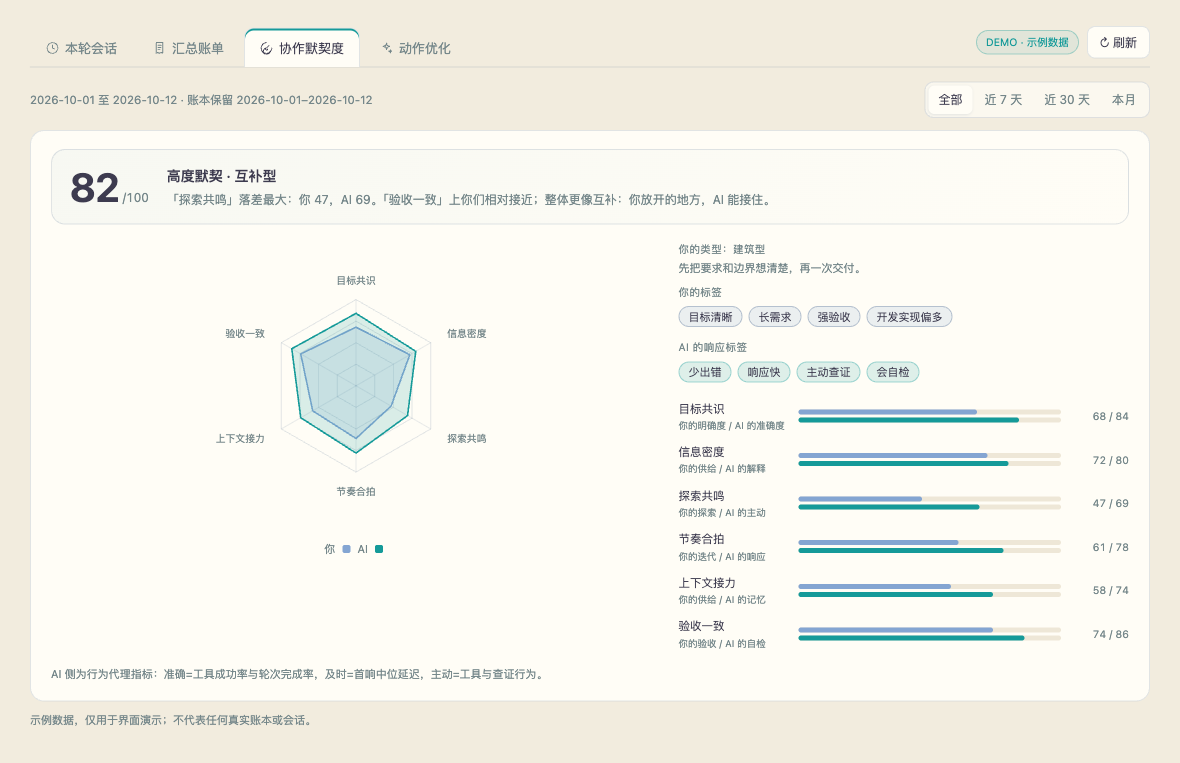
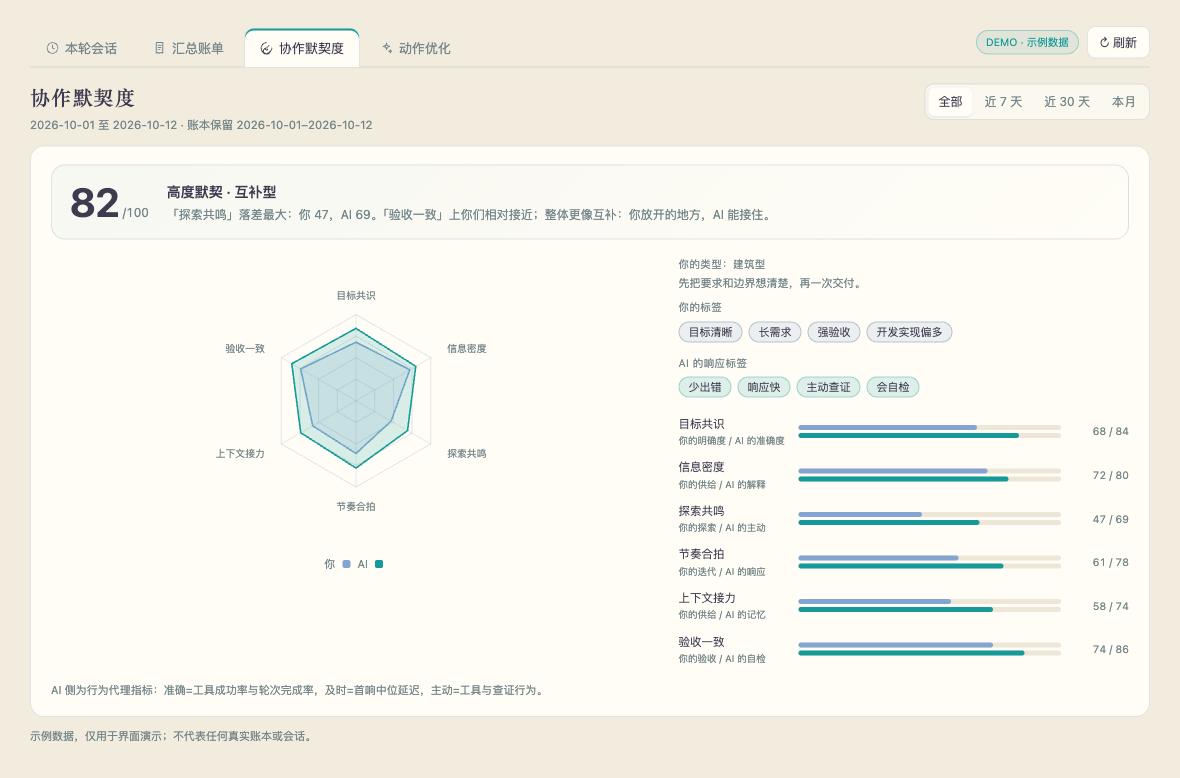
feat: module titles and right-side switches (0.1.7)

diff --git a/client.js b/client.js
@@ -258,8 +258,11 @@ window.__ModuleLoader__.load({
       .tb-report-error { position: absolute; right: 0; top: calc(100% + 6px); z-index: 41; max-width: 260px; padding: 6px 9px; border: 1px solid ${C.error}; border-radius: 8px; background: var(--tb-card); color: ${C.error}; font-size: 10.5px; box-shadow: 0 8px 24px rgba(42,74,120,.12); }
       .tb-primary-tab[aria-selected="true"] { background: var(--tb-card); border-color: var(--tb-line); color: ${C.primary}; box-shadow: inset 0 2px 0 ${VI.teal}; }
       .tb-module { display: grid; gap: 14px; margin-top: 14px; }
-      .tb-module-head { display: flex; align-items: center; justify-content: space-between; gap: 12px; flex-wrap: wrap; }
+      .tb-module-head { display: flex; align-items: flex-start; justify-content: space-between; gap: 14px; flex-wrap: wrap; }
+      .tb-module-heading { display: flex; flex-direction: column; gap: 3px; min-width: 0; }
+      .tb-module-title { font-family: "Songti SC", "STSong", "Noto Serif SC", serif; font-size: 20px; font-weight: 600; letter-spacing: .06em; color: ${C.primary}; }
       .tb-module-meta { font-size: 11.5px; color: ${C.secondary}; }
+      .tb-module-controls { display: flex; align-items: center; gap: 10px; flex-wrap: wrap; margin-left: auto; padding-top: 2px; }
       .tb-top { padding: 16px 18px; background: linear-gradient(140deg, color-mix(in srgb, ${VI.ivory} 26%, var(--tb-card)), var(--tb-card) 64%); }
       .tb-top-head { display: flex; align-items: center; justify-content: space-between; gap: 12px; flex-wrap: wrap; }
       .tb-top-tabs { flex-wrap: wrap; }
@@ -1160,7 +1163,7 @@ window.__ModuleLoader__.load({
         setPositions(prev => ({ ...prev, [id]: { x: Math.max(30, Math.min(layout.width - 30, x)), y: Math.max(24, Math.min(layout.height - 24, y)) } }))
       }
 
-      return h(Card, { title: '任务关联图', sub: relations.note },
+      return h(Card, { title: '任务关联度', sub: relations.note },
         relations.topics.length ? h('div', { className: 'tb-tags' },
           relations.topics.map(topic => h('span', { key: topic.id, className: 'tb-tag a' }, `${topic.label} · ${topic.count}`))) : null,
         h('svg', {
@@ -1435,10 +1438,14 @@ window.__ModuleLoader__.load({
           h('button', { key, type: 'button', 'aria-pressed': period === key, onClick: () => onChange(key) }, label)))
     }
 
-    function ModuleBar({ meta, period, onChange }) {
+    function ModuleBar({ title, meta, period, onChange, children }) {
       return h('div', { className: 'tb-module-head' },
-        h('div', { className: 'tb-module-meta' }, meta || ''),
-        h(PeriodBar, { period, onChange }))
+        h('div', { className: 'tb-module-heading' },
+          title ? h('div', { className: 'tb-module-title' }, title) : null,
+          meta ? h('div', { className: 'tb-module-meta' }, meta) : null),
+        h('div', { className: 'tb-module-controls' },
+          children,
+          period ? h(PeriodBar, { period, onChange }) : null))
     }
 
     function Switch({ items, value, onChange, accent = VI.teal }) {
@@ -1618,12 +1625,10 @@ window.__ModuleLoader__.load({
       const session = data.session
       if (!session) return h('div', { className: 'tb-empty' }, '本轮会话还没有计费记录。')
       return h('div', { className: 'tb-session' },
-        h('div', { className: 'tb-session-head' },
-          h('div', null,
-            h('div', { className: 'tb-card-t' }, '账单明细'),
-            h('div', { className: 'tb-card-s' }, `${session.title || '当前会话'} · ${session.date || ''} · ${session.domainLabel || ''} · ${session.turns || '—'} 轮 · ${(session.models || []).join('、') || '—'}`))),
-        h('div', { className: 'tb-module-switch' },
-          h(Switch, { items: [['overview', '概览'], ['detail', '明细']], value: view, onChange: setView, accent: VI.teal })),
+        h(ModuleBar, {
+          title: view === 'overview' ? '概览' : '明细',
+          meta: `${session.title || '当前会话'} · ${session.date || ''} · ${session.domainLabel || ''} · ${session.turns || '—'} 轮 · ${(session.models || []).join('、') || '—'}`,
+        }, h(Switch, { items: [['overview', '概览'], ['detail', '明细']], value: view, onChange: setView, accent: VI.teal })),
         view === 'overview'
           ? h(React.Fragment, null,
             h(SessionOverview, { session, data }),
@@ -1722,10 +1727,14 @@ window.__ModuleLoader__.load({
 
     function TotalModule({ data, period, onPeriod, domain, onDomain, tool, onTool }) {
       const [view, setView] = useState('overview')
+      const title = view === 'overview' ? '概览' : view === 'detail' ? '明细' : '任务关联度'
       return h('div', { className: 'tb-module' },
-        h(ModuleBar, { meta: `${data.range.from} 至 ${data.range.to} · 账本保留 ${data.retained.from}–${data.retained.to}`, period, onChange: onPeriod }),
-        h('div', { className: 'tb-module-switch' },
-          h(Switch, { items: [['overview', '概览'], ['detail', '明细'], ['relations', '任务关联']], value: view, onChange: setView, accent: VI.navy })),
+        h(ModuleBar, {
+          title,
+          meta: `${data.range.from} 至 ${data.range.to} · 账本保留 ${data.retained.from}–${data.retained.to}`,
+          period,
+          onChange: onPeriod,
+        }, h(Switch, { items: [['overview', '概览'], ['detail', '明细'], ['relations', '任务关联度']], value: view, onChange: setView, accent: VI.navy })),
         view === 'overview'
           ? h(Summary, { data })
           : view === 'detail'
@@ -1742,13 +1751,13 @@ window.__ModuleLoader__.load({
 
     function RapportModule({ data, period, onPeriod }) {
       return h('div', { className: 'tb-module' },
-        h(ModuleBar, { meta: '按所选账期计算', period, onChange: onPeriod }),
+        h(ModuleBar, { title: '协作默契度', meta: '按所选账期计算', period, onChange: onPeriod }),
         h(StyleSection, { data }))
     }
 
     function ActionsModule({ data, period, onPeriod }) {
       return h('div', { className: 'tb-module' },
-        h(ModuleBar, { meta: '按所选账期计算', period, onChange: onPeriod }),
+        h(ModuleBar, { title: '动作优化', meta: '按所选账期计算', period, onChange: onPeriod }),
         h(Suggestions, { data }))
     }
 

diff --git a/docs/demo.html b/docs/demo.html
@@ -11,9 +11,12 @@
   .primary-head { display:flex; align-items:center; justify-content:space-between; gap:16px; border-bottom:1px solid var(--line); margin-bottom:14px; }
   .primary-tabs { display:flex; gap:4px; flex-wrap:wrap; }
   .primary-tools { display:flex; align-items:center; gap:8px; margin-bottom:8px; }
-  .module-head { display:flex; align-items:center; justify-content:space-between; gap:12px; flex-wrap:wrap; margin:2px 0 12px; }
+  .module-head { display:flex; align-items:flex-start; justify-content:space-between; gap:14px; flex-wrap:wrap; margin:2px 0 12px; }
+  .module-heading { display:flex; flex-direction:column; gap:3px; min-width:0; }
+  .module-title { font-family:"Songti SC","STSong","Noto Serif SC",serif; font-size:20px; font-weight:600; letter-spacing:.06em; color:var(--ink); }
   .module-meta { font-size:11.5px; color:var(--muted); }
-  .subswitch { display:inline-grid; grid-template-columns:repeat(3,1fr); position:relative; padding:3px; margin:0 0 12px; border:1px solid var(--line); border-radius:99px; background:rgba(255,253,246,.7); }
+  .module-controls { display:flex; align-items:center; gap:10px; flex-wrap:wrap; margin-left:auto; padding-top:2px; }
+  .subswitch { display:inline-grid; grid-template-columns:repeat(3,1fr); position:relative; padding:3px; margin:0; border:1px solid var(--line); border-radius:99px; background:rgba(255,253,246,.7); }
   .subswitch .thumb { position:absolute; top:3px; bottom:3px; left:3px; width:calc((100% - 6px)/3); border-radius:99px; background:var(--navy); box-shadow:0 2px 7px rgba(42,74,120,.25); }
   .subswitch button { position:relative; z-index:1; border:0; background:transparent; color:var(--muted); padding:5px 14px; border-radius:99px; font:inherit; font-size:12px; }
   .subswitch button.on { color:#fff; font-weight:600; }
@@ -168,9 +171,10 @@ const actions = [
   ['high','先优化最贵的三个任务','前三个任务占了可归因费用的 51%，它们的写法决定了大部分账单。','优先给这类任务建立模板：固定输入、固定验收标准、固定停止条件。','结构性优化','任务集中度'],
 ];
 const actionsHTML = `<div class="suggestions">${actions.map(([p,t,w,a,s,b])=>`<div class="sug"><div class="sug-head"><span class="dot" style="background:${p==='high'?'#B55245':'#D9A441'}"></span><span class="sug-title">${t}</span><span class="sug-save">${s}</span></div><div class="sug-why">${w}</div><div class="sug-act">${a}</div><div class="sug-basis">${b}</div></div>`).join('')}</div>`;
-const moduleBar = `<div class="module-head"><div class="module-meta">2026-10-01 至 2026-10-12 · 账本保留 2026-10-01–2026-10-12</div><div class="seg"><button class="on">全部</button><button>近 7 天</button><button>近 30 天</button><button>本月</button></div></div>`;
-const subSwitch = tab==='summary' ? `<div class="subswitch"><span class="thumb"></span><button class="on">概览</button><button>明细</button><button>任务关联</button></div>` : '';
-document.getElementById('panel').innerHTML = moduleBar + subSwitch + (tab==='rapport'?`<div class="card" style="padding:18px 20px">${rapport}</div>`:tab==='actions'?actionsHTML:summary);
+const title = tab==='summary' ? '概览' : tab==='rapport' ? '协作默契度' : '动作优化';
+const subSwitch = tab==='summary' ? `<div class="subswitch"><span class="thumb"></span><button class="on">概览</button><button>明细</button><button>任务关联度</button></div>` : '';
+const moduleBar = `<div class="module-head"><div class="module-heading"><div class="module-title">${title}</div><div class="module-meta">2026-10-01 至 2026-10-12 · 账本保留 2026-10-01–2026-10-12</div></div><div class="module-controls">${subSwitch}<div class="seg"><button class="on">全部</button><button>近 7 天</button><button>近 30 天</button><button>本月</button></div></div></div>`;
+document.getElementById('panel').innerHTML = moduleBar + (tab==='rapport'?`<div class="card" style="padding:18px 20px">${rapport}</div>`:tab==='actions'?actionsHTML:summary);
 document.querySelectorAll('.pill').forEach(el=>el.addEventListener('click',()=>{location.search='?tab='+el.dataset.tab}));
 </script>
 </body>

diff --git a/README.ja.md b/README.ja.md
@@ -2,7 +2,7 @@
 
 [English](README.md) | [简体中文](README.zh-CN.md) | **日本語** | [한국어](README.ko.md)
 
-バージョン **0.1.6**（2026-11-25）· パッケージ `@zhiyu.pub/dsh-token-bill`。
+バージョン **0.1.7**（2026-11-25）· パッケージ `@zhiyu.pub/dsh-token-bill`。
 
 ローカルのコスト台帳とセッションログを、読める「Token 明細」に変える [DeepSeek Harness](https://github.com/deepseek-ai/deepseek-harness)（DSH）バンドルです。会話ページに **明細（账单）** ビューを追加します。
 
@@ -45,10 +45,10 @@ web プロファイルでは `desktop` を `web` に。ソースからは `dsh p
 
 ### 上部タブ
 
-ページタイトルの代わりに 4 つのトップタブを置きます：`今回のセッション` / `集計明細` / `協働の相性` / `アクション最適化`。それぞれ独立したモジュールです。期間切替（すべて / 過去7日 / 過去30日 / 今月）は集計明細・協働の相性・アクション最適化の内部にあります。
+ページタイトルの代わりに 4 つのトップタブを置きます：`今回のセッション` / `集計明細` / `協働の相性` / `アクション最適化`。それぞれ独立したモジュールです。モジュール見出しには現在のサブビューを表示し、切替タブと期間は右側に置きます。期間切替（すべて / 過去7日 / 過去30日 / 今月）は集計明細・協働の相性・アクション最適化の内部にあります。
 
 - **今回のセッション**：現在のセッションの費用、費用タイプ構成（割合 / 矩形分布 / 親子帰属 / ステップヒートマップ）、ターン数、折りたたみ式のコスト推移。セッション固有のため期間切替はありません。内部は「概要 / 詳細」に分かれ、詳細では Token 構成、ツール Top、ステップ別費用を表示します。
-- **集計明細**：内部は「概要 / 詳細 / タスク関連」の3つ。概要は KPI・1行の結論・コスト上位3タスク（赤 / 金 / 青の目印）、詳細は期間分布・タスク明細・ツール・モデル分布・タスク種別、タスク関連は関係図のみです。
+- **集計明細**：内部は「概要 / 詳細 / タスク関連度」の3つ。概要は KPI・1行の結論・コスト上位3タスク（赤 / 金 / 青の目印）、詳細は期間分布・タスク明細・ツール・モデル分布・タスク種別、タスク関連度は関係図のみです。
 - **協働の相性**：6軸のデュアルレーダー、双方のタグ、相性スコア、補完 / 同調の判定、軸ごとの差。
 - **アクション最適化**：ピーク回避、キャッシュ、文脈、モデル振り分け、タスク集中、ツールループの提案。根拠と概算削減額を添えます。
 
@@ -64,7 +64,7 @@ web プロファイルでは `desktop` を `web` に。ソースからは `dsh p
 
 呼び出し回数上位12ツール、中央値 / P90 の実行時間、エラー率、利用タスク数。ツールをクリックするとタスクを絞り込めます。
 
-### タスク関連図
+### タスク関連度
 
 証拠のある関係だけを線で結びます — 共通の記憶トピック、成果物ファイルの再利用、明示的な参照、親子セッション。同一ワークスペース / 同日 / 同種別だけでは線を引きません。証拠のないタスクは孤立点のままです。曲線エッジ、力指向レイアウト、ホバーで隣接ノードを強調、ノードはドラッグ可能、エッジの理由はホバーで表示。
 

diff --git a/README.zh-CN.md b/README.zh-CN.md
@@ -2,7 +2,7 @@
 
 [English](README.md) | **简体中文** | [日本語](README.ja.md) | [한국어](README.ko.md)
 
-版本 **0.1.6**（2026-11-25）· 包名 `@zhiyu.pub/dsh-token-bill`。
+版本 **0.1.7**（2026-11-25）· 包名 `@zhiyu.pub/dsh-token-bill`。
 
 在对话页的视图标签里新增「Token 账单」，把散落在账本与会话日志里的用量整理成一张能读懂的账单。
 
@@ -45,10 +45,10 @@ web profile 把 `desktop` 换成 `web`。也可以从源码安装：`dsh plugin 
 
 ### 顶部一级标签
 
-四个一级标签替换页面标题：`本轮会话` / `汇总账单` / `协作默契度` / `动作优化`，每个都是独立模块。账期切换（全部 / 近 7 天 / 近 30 天 / 本月）放在汇总账单、协作默契度、动作优化三个模块内部。
+四个一级标签替换页面标题：`本轮会话` / `汇总账单` / `协作默契度` / `动作优化`，每个都是独立模块。模块标题显示当前子视图，切换胶囊和账期都靠右。账期切换（全部 / 近 7 天 / 近 30 天 / 本月）放在汇总账单、协作默契度、动作优化三个模块内部。
 
 - **本轮会话**：当前会话费用、费用类型构成（归类占比 / 矩形分布 / 父子归属 / 步骤热力图）、轮次，以及默认折叠的费用走势。只针对当前会话，所以没有账期切换；内部再分「概览 / 明细」两个胶囊，明细含 Token 构成、工具 Top 和逐步骤费用。
-- **汇总账单**：内部再分「概览 / 明细 / 任务关联」三个胶囊。概览是 KPI、一句话结论和消耗成本 Top 3（红 / 金 / 蓝标识）；明细是时间分布、任务账单、工具与执行、模型分布、任务类型；任务关联只保留关系图。
+- **汇总账单**：内部再分「概览 / 明细 / 任务关联度」三个胶囊。概览是 KPI、一句话结论和消耗成本 Top 3（红 / 金 / 蓝标识）；明细是时间分布、任务账单、工具与执行、模型分布、任务类型；任务关联度只保留关系图。
 - **协作默契度**：六维双雷达、双方标签、默契分、互补 / 同频判断与逐维落差。
 - **动作优化**：错峰、缓存、上下文减重、模型分流、任务聚焦、工具循环等建议，带数据依据和粗略可省金额。
 
@@ -64,7 +64,7 @@ web profile 把 `desktop` 换成 `web`。也可以从源码安装：`dsh plugin 
 
 Top 12 工具调用次数、单次中位 / P90 耗时、错误率与覆盖任务数；点击工具可反向筛选任务。
 
-### 任务关联图
+### 任务关联度
 
 只保留可证实的关系：记忆主题、产出文件复用、明确引用、父子会话。同工作区 / 同日 / 同类型不再自动连边；没有证据的任务保持孤点。曲线边、力导向布局、悬停聚焦相邻节点、可拖拽、边悬停显示原因。
 

diff --git a/README.ko.md b/README.ko.md
@@ -2,7 +2,7 @@
 
 [English](README.md) | [简体中文](README.zh-CN.md) | [日本語](README.ja.md) | **한국어**
 
-버전 **0.1.6** (2026-11-25) · 패키지 `@zhiyu.pub/dsh-token-bill`.
+버전 **0.1.7** (2026-11-25) · 패키지 `@zhiyu.pub/dsh-token-bill`.
 
 로컬 비용 원장과 세션 로그를 읽기 쉬운 **Token 명세**로 바꾸는 [DeepSeek Harness](https://github.com/deepseek-ai/deepseek-harness)(DSH) 번들입니다. 대화 페이지에 **명세(账单)** 뷰를 추가합니다.
 
@@ -45,10 +45,10 @@ dsh plugin --profile desktop add @zhiyu.pub/dsh-token-bill
 
 ### 상단 탭
 
-페이지 제목 대신 네 개의 1차 탭을 둡니다: `이번 세션` / `요약 명세` / `협업 궁합` / `액션 최적화`. 각각 독립된 모듈입니다. 기간 전환(전체 / 최근 7일 / 최근 30일 / 이번 달)은 요약 명세·협업 궁합·액션 최적화 내부에 있습니다.
+페이지 제목 대신 네 개의 1차 탭을 둡니다: `이번 세션` / `요약 명세` / `협업 궁합` / `액션 최적화`. 각각 독립된 모듈입니다. 모듈 제목에는 현재 하위 뷰를 표시하고, 전환 탭과 기간은 오른쪽에 둡니다. 기간 전환(전체 / 최근 7일 / 최근 30일 / 이번 달)은 요약 명세·협업 궁합·액션 최적화 내부에 있습니다.
 
 - **이번 세션**: 현재 세션의 비용, 비용 유형 구성(비중 / 사각형 분포 / 부모-자식 귀속 / 단계 히트맵), 턴 수, 접힌 비용 추이. 세션 전용이라 기간 전환이 없습니다. 내부는 **개요 / 상세**로 나뉘며, 상세에는 Token 구성, 도구 Top, 단계별 비용이 있습니다.
-- **요약 명세**: 내부는 **개요 / 상세 / 작업 관계** 세 탭입니다. 개요는 KPI·한 줄 결론·비용 상위 3개 작업(빨강 / 금색 / 파랑 표시), 상세는 기간 분포·작업 명세·도구·모델 분포·작업 유형, 작업 관계는 관계도만 표시합니다.
+- **요약 명세**: 내부는 **개요 / 상세 / 작업 관계도** 세 탭입니다. 개요는 KPI·한 줄 결론·비용 상위 3개 작업(빨강 / 금색 / 파랑 표시), 상세는 기간 분포·작업 명세·도구·모델 분포·작업 유형, 작업 관계도는 관계도만 표시합니다.
 - **협업 궁합**: 6축 듀얼 레이더, 양쪽 태그, 궁합 점수, 보완 / 동조 판단, 축별 차이.
 - **액션 최적화**: 피크 회피, 캐시, 맥락, 모델 분배, 작업 집중, 도구 루프 제안. 근거와 대략적인 절감액을 붙입니다.
 

diff --git a/README.md b/README.md
@@ -2,7 +2,7 @@
 
 **English** | [简体中文](README.zh-CN.md) | [日本語](README.ja.md) | [한국어](README.ko.md)
 
-Version **0.1.6** (2026-11-25) · package `@zhiyu.pub/dsh-token-bill`.
+Version **0.1.7** (2026-11-25) · package `@zhiyu.pub/dsh-token-bill`.
 
 A [DeepSeek Harness](https://github.com/deepseek-ai/deepseek-harness) (DSH) bundle that turns the local cost ledger and session logs into a readable token bill. It adds a **Bill (账单)** view to the conversation page.
 
@@ -45,7 +45,7 @@ Sample data only — not a real ledger or session. Screenshots show the Chinese 
 
 ### Top tabs
 
-Four first-level tabs replace the page title: `This session` / `Summary bill` / `Collaboration fit` / `Action tuning`. Each is an independent module. The period switch (All / 7 days / 30 days / This month) sits inside Summary bill, Collaboration fit and Action tuning.
+Four first-level tabs replace the page title: `This session` / `Summary bill` / `Collaboration fit` / `Action tuning`. Each is an independent module. The module title shows the active sub-view; the switch and period controls sit on the right. The period switch (All / 7 days / 30 days / This month) sits inside Summary bill, Collaboration fit and Action tuning.
 
 - **This session**: current session cost, cost-type composition (share / rectangles / parent-child / step heatmap), turns, and a collapsed cost timeline. Session-specific, so it has no period switch; inside, **Overview / Detail** switches to Token breakdown, top tools and per-step costs.
 - **Summary bill**: **Overview / Detail / Relations** sub-tabs. Overview is KPIs, a one-line conclusion and the top 3 costliest tasks (red / gold / blue markers); Detail is time, task bill, tools, models and task types; Relations is the task graph alone.

diff --git a/CHANGELOG.md b/CHANGELOG.md
@@ -1,5 +1,10 @@
 # Changelog
 
+## 0.1.7 — 2026-11-25
+
+- 模块标题显示当前子视图（概览 / 明细 / 任务关联度），切换胶囊与账期移到右侧。
+- 「任务关联」统一改为「任务关联度」。
+
 ## 0.1.6 — 2026-11-25
 
 - 修复账单页空白：恢复四个一级标签和模块账期栏组件（PrimaryTabs / ModuleBar / PeriodBar / 生成报告按钮）。
